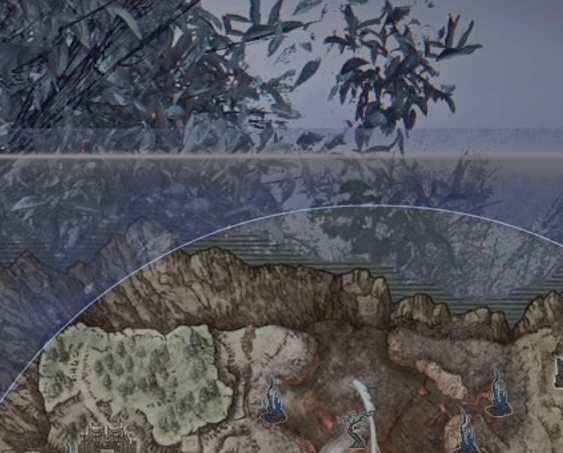
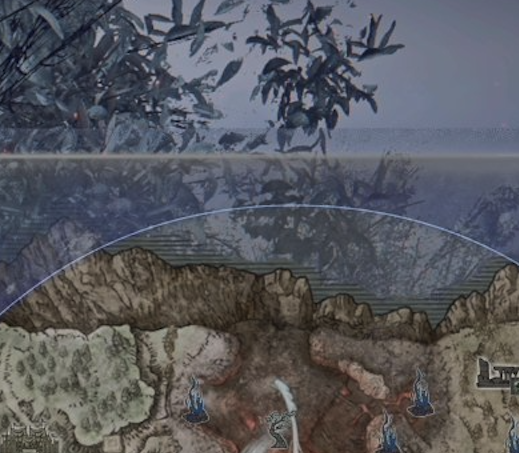
wip: i don't even remember where we were

diff --git a/src/app/capture/page.tsx b/src/app/capture/page.tsx
@@ -1,6 +1,6 @@
 'use client'
 
-import { useEffect, useState } from 'react'
+import { Suspense, useEffect, useState } from 'react'
 import { useRouter, useSearchParams } from 'next/navigation'
 
 // Map shifting earth detection results to URL paths
@@ -27,7 +27,7 @@ interface DetectionResult {
   shifting_earth_confidence: number
 }
 
-export default function CapturePage() {
+function CapturePageContent() {
   const router = useRouter()
   const searchParams = useSearchParams()
   const [status, setStatus] = useState<'capturing' | 'processing' | 'redirecting' | 'error'>('capturing')
@@ -55,6 +55,8 @@ export default function CapturePage() {
         }
 
         const data: DetectionResult = await response.json()
+        console.log('OCR response:', data)
+        console.log('spawn_slot value:', data.spawn_slot, 'type:', typeof data.spawn_slot)
         setResult(data)
         setStatus('processing')
 
@@ -76,6 +78,13 @@ export default function CapturePage() {
           params.set('spawn_x', String(data.spawn_debug.system.x))
           params.set('spawn_y', String(data.spawn_debug.system.y))
         }
+
+        // Pass OCR-detected spawn slot for debugging
+        console.log('Setting ocr_slot:', data.spawn_slot)
+        if (data.spawn_slot) {
+          params.set('ocr_slot', data.spawn_slot)
+        }
+        console.log('Final params:', params.toString())
 
         // Pass spawn type (from Stream Deck button: church or empty)
         params.set('spawn_type', isChurchSpawn ? 'church_spawn' : 'empty_spawn')
@@ -146,5 +155,19 @@ export default function CapturePage() {
         )}
       </div>
     </div>
+  )
+}
+
+export default function CapturePage() {
+  return (
+    <Suspense fallback={
+      <div className="min-h-screen bg-gray-900 text-white flex items-center justify-center">
+        <div className="text-center p-8">
+          <div className="w-8 h-8 border-4 border-blue-500 border-t-transparent rounded-full animate-spin mx-auto"></div>
+        </div>
+      </div>
+    }>
+      <CapturePageContent />
+    </Suspense>
   )
 }

diff --git a/src/components/MapBuilder.tsx b/src/components/MapBuilder.tsx
@@ -120,9 +120,23 @@ export default function MapBuilder({ mapType = 'normal' }: MapBuilderProps) {
         // Also set the building type (empty_spawn or church_spawn)
         setSelectedBuildings(prev => ({ ...prev, [nearestSlot]: spawnType }))
         setPathTaken(prev => ({ ...prev, [nearestSlot]: spawnType }))
+
+        // Check for seed match after state updates (mirrors handleSpawnToggle logic)
+        setTimeout(() => {
+          const currentNightlord = selectedNightlord || null
+          const cleanedNightlord = (!currentNightlord || currentNightlord === 'empty') ? null : currentNightlord
+          const slotsWithSpawn = { [nearestSlot]: spawnType }
+          const remainingSeeds = getRemainingSeeds(mapType, slotsWithSpawn, cleanedNightlord, nearestSlot)
+
+          if (remainingSeeds.length === 1) {
+            console.log('OCR auto-found seed:', remainingSeeds[0].seed_id)
+            trackAnalyticsEvent('seed_pattern_found', { map_type: mapType, seed_id: remainingSeeds[0].seed_id })
+            setPendingLogSeed(remainingSeeds[0].seed_id)
+          }
+        }, 100)
       }
     }
-  }, [autoSelectApplied, searchParams, spawnAnalysis.possibleSpawnSlots, selectedSpawnSlot, toggleSpawnSlot, mapType])
+  }, [autoSelectApplied, searchParams, spawnAnalysis.possibleSpawnSlots, selectedSpawnSlot, toggleSpawnSlot, mapType, selectedNightlord])
 
   useEffect(() => {
     if (!mapRef.current) return

diff --git a/ocr-service/app/capture/frame_processor.py b/ocr-service/app/capture/frame_processor.py
@@ -22,12 +22,14 @@ class FrameProcessor:
         """Extract the map overlay region from a frame.
 
         The map typically appears on the right side of the screen when opened.
+        The in-game map is square, so we extract a square region to match
+        the 1000x1000 coordinate system.
 
         Args:
             frame: Full captured frame.
 
         Returns:
-            Cropped map region, or None if extraction failed.
+            Cropped map region (square), or None if extraction failed.
         """
         if frame is None:
             return None
@@ -35,17 +37,38 @@ class FrameProcessor:
         try:
             height, width = frame.shape[:2]
 
-            # Calculate crop coordinates based on settings
-            x_start = int(width * settings.map_region_x_start)
-            x_end = int(width * settings.map_region_x_end)
+            # Calculate initial crop coordinates based on settings
             y_start = int(height * settings.map_region_y_start)
             y_end = int(height * settings.map_region_y_end)
+            region_height = y_end - y_start
 
-            # Crop the map region
+            # Make the region square using height as the reference
+            # The map is on the right side of the screen
+            x_end = int(width * settings.map_region_x_end)
+            x_start = x_end - region_height  # Square: width = height
+
+            # Ensure x_start doesn't go negative
+            if x_start < 0:
+                x_start = 0
+                # Adjust y to maintain square aspect if needed
+                region_height = x_end - x_start
+                y_center = (y_start + y_end) // 2
+                y_start = y_center - region_height // 2
+                y_end = y_start + region_height
+
+            # Crop the map region (now square)
             map_region = frame[y_start:y_end, x_start:x_end]
+
+            # Trim left padding - the in-game map is right-aligned within the region
+            # Only trim left side; coordinate conversion handles non-square regions
+            left_trim = settings.map_region_left_trim
+            if left_trim > 0 and left_trim < map_region.shape[1]:
+                map_region = map_region[:, left_trim:]
 
             self.last_frame = frame
             self.last_map_region = map_region
+
+            logger.debug(f"Extracted square map region: {map_region.shape[1]}x{map_region.shape[0]}")
 
             return map_region
 

diff --git a/ocr-service/app/config.py b/ocr-service/app/config.py
@@ -22,10 +22,18 @@ class Settings(BaseSettings):
     map_region_x_end: float = 1.0     # End at 100% of screen width
     map_region_y_start: float = 0.05  # Start from 5% of screen height
     map_region_y_end: float = 0.95    # End at 95% of screen height
+    # Trim extra padding from left side of extracted map region (pixels)
+    # The in-game map is right-aligned, leaving ~103px padding on left
+    map_region_left_trim: int = 103
 
     # Coordinate system (matches Next.js app)
     coordinate_system_size: int = 1000
     slot_match_distance_threshold: int = 100
+    # Offset to align OCR coordinates with frontend coordinate system
+    # NOTE: Offset disabled - was causing issues for slots in different map areas
+    # The misalignment may be non-uniform (scaling issue, not translation)
+    coordinate_offset_x: int = 0
+    coordinate_offset_y: int = 0
 
     # WebSocket settings
     ws_host: str = "0.0.0.0"
@@ -95,5 +103,5 @@ BUILDING_SLOT_COORDINATES = [
 
 # Special coordinates (in 1000x1000 coordinate system)
 # Nightlord icon appears in bottom-left of map overlay
-NIGHTLORD_COORDINATE = {"id": "nightlord", "x": 293, "y": 800}
+NIGHTLORD_COORDINATE = {"id": "nightlord", "x": 163, "y": 800}
 EVENT_COORDINATE = {"id": "event", "x": 102, "y": 740}

diff --git a/ocr-service/app/detection/coordinate_mapper.py b/ocr-service/app/detection/coordinate_mapper.py
@@ -18,6 +18,9 @@ class CoordinateMapper:
         self.nightlord_coordinate = NIGHTLORD_COORDINATE
         self.system_size = settings.coordinate_system_size
         self.distance_threshold = settings.slot_match_distance_threshold
+        # Offset to align OCR region with frontend coordinate system
+        self.offset_x = settings.coordinate_offset_x
+        self.offset_y = settings.coordinate_offset_y
 
     def pixel_to_system(
         self,
@@ -40,8 +43,9 @@ class CoordinateMapper:
         scale_x = self.system_size / region_width
         scale_y = self.system_size / region_height
 
-        system_x = int(pixel_x * scale_x)
-        system_y = int(pixel_y * scale_y)
+        # Apply offset to align with frontend coordinate system
+        system_x = int(pixel_x * scale_x) - self.offset_x
+        system_y = int(pixel_y * scale_y) - self.offset_y
 
         return system_x, system_y
 

diff --git a/ocr-service/app/main.py b/ocr-service/app/main.py
@@ -174,6 +174,8 @@ async def capture_monitor(monitor_index: int, debug: bool = False):
             height, width = map_region.shape[:2]
 
             # Draw GREEN box on nightlord position
+            # Note: NIGHTLORD_COORDINATE was calibrated directly for the OCR extraction,
+            # so it doesn't need the coordinate_offset applied
             nl_x = NIGHTLORD_COORDINATE["x"]
             nl_y = NIGHTLORD_COORDINATE["y"]
             scale_x = width / 1000
